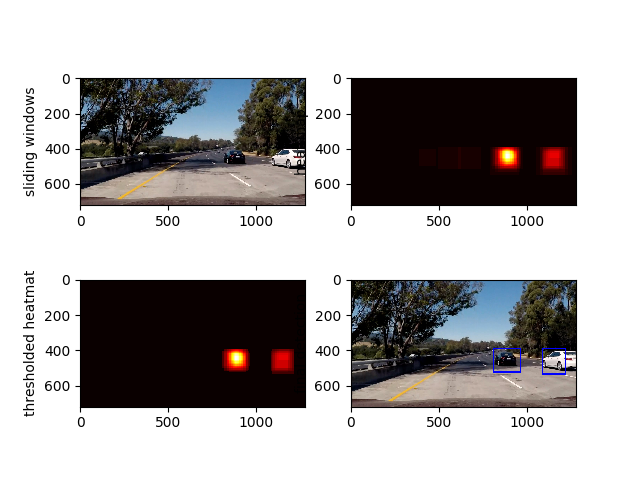
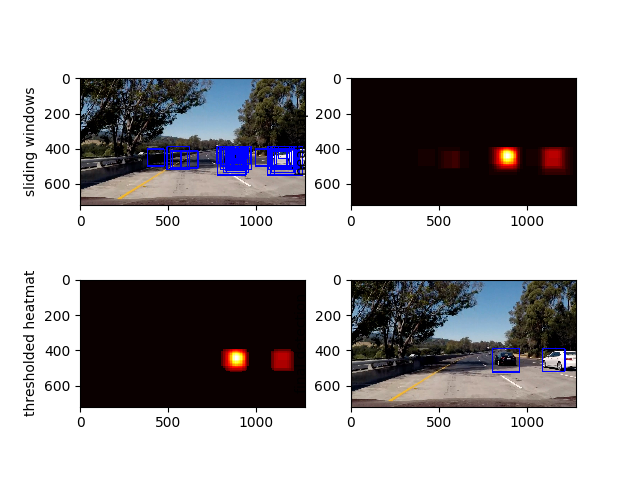
revised version

diff --git a/main.py b/main.py
@@ -144,12 +144,12 @@ def pipeline(img):
 # video files
 ########################################
 
-fname = "project_video"
-output = fname + "_output_final_revised.mp4"
-input_file = VideoFileClip(fname + ".mp4")
-# cut_file = input_file.subclip(41, 43)
-processed_file = input_file.fl_image(pipeline)
-processed_file.write_videofile(output, audio = False)
+# fname = "project_video"
+# output = fname + "_output_final_revised.mp4"
+# input_file = VideoFileClip(fname + ".mp4")
+# # cut_file = input_file.subclip(41, 43)
+# processed_file = input_file.fl_image(pipeline)
+# processed_file.write_videofile(output, audio = False)
 
 ##########################################
 # save images for writeup
@@ -193,7 +193,7 @@ processed_file.write_videofile(output, audio = False)
 # 	heat = add_heat(heat, boxes)
 
 # heat_orig = np.copy(heat)
-# heat = apply_threshold(heat,3)
+# heat = apply_threshold(heat,5)
 # heatmap = np.clip(heat, 0, 255)
 
 # labels = label(heatmap)

diff --git a/util_functions.py b/util_functions.py
@@ -144,7 +144,7 @@ def find_cars(img, draw_img, ystart, ystop, scale, svc, X_scaler, orient, pix_pe
     #define the search area depending on the scaling of the window    
     xstart = 380
 
-    if scale < 1.2:
+    if scale < 1.1:
         ystart = 390
         yend = 500
         # xstart = 400
@@ -210,7 +210,7 @@ def find_cars(img, draw_img, ystart, ystop, scale, svc, X_scaler, orient, pix_pe
                 ytop_draw = np.int(ytop*scale)
                 win_draw = np.int(window*scale)
                 box_list.append(((xbox_left+xstart, ytop_draw+ystart),(xbox_left+win_draw+xstart,ytop_draw+win_draw+ystart)))
-                # cv2.rectangle(draw_img,(xbox_left+xstart, ytop_draw+ystart),(xbox_left+win_draw+xstart,ytop_draw+win_draw+ystart),(0,0,255),6) 
+                cv2.rectangle(draw_img,(xbox_left+xstart, ytop_draw+ystart),(xbox_left+win_draw+xstart,ytop_draw+win_draw+ystart),(0,0,255),6) 
                 
     return draw_img, box_list
 
